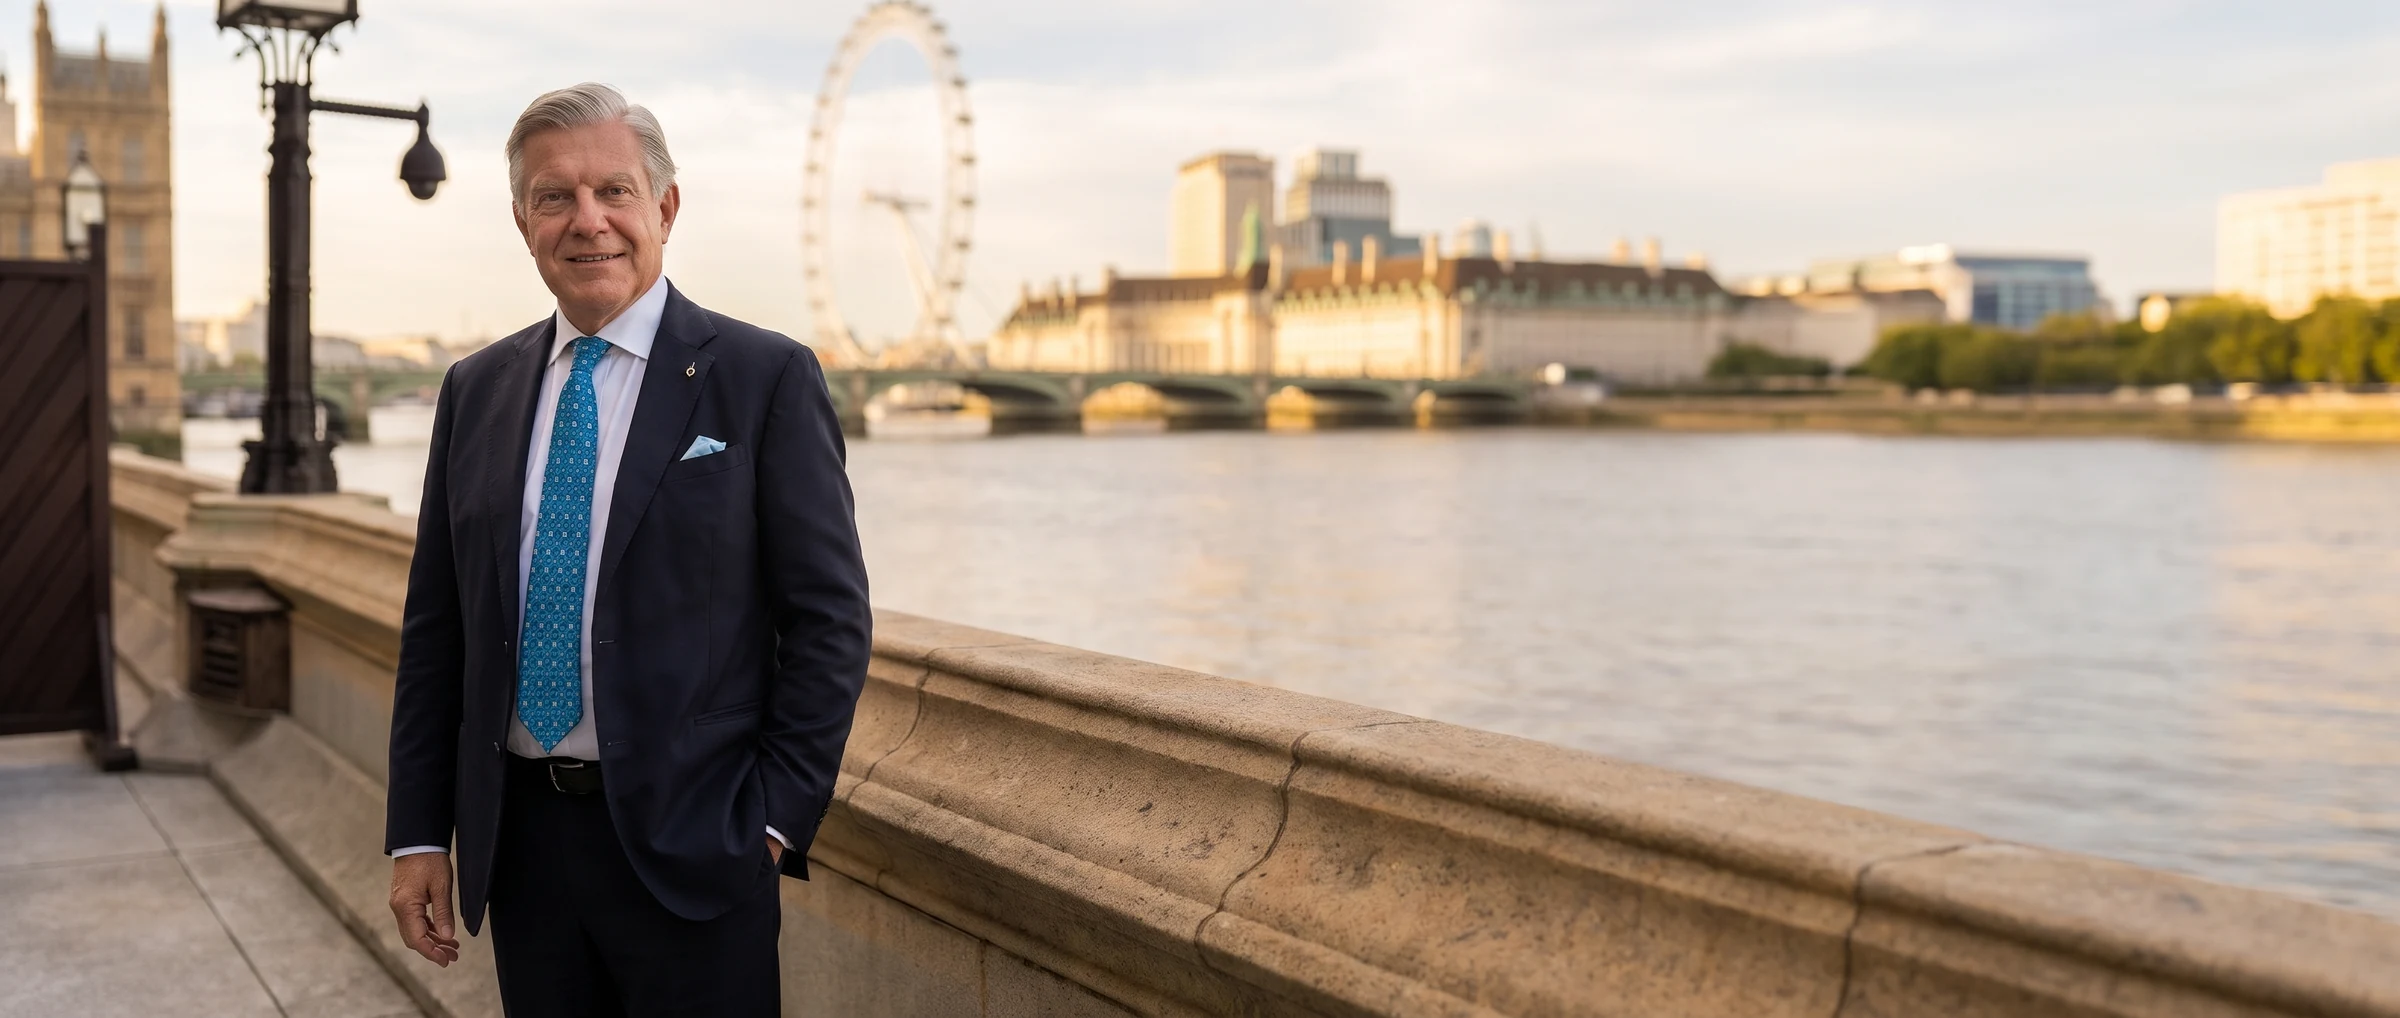
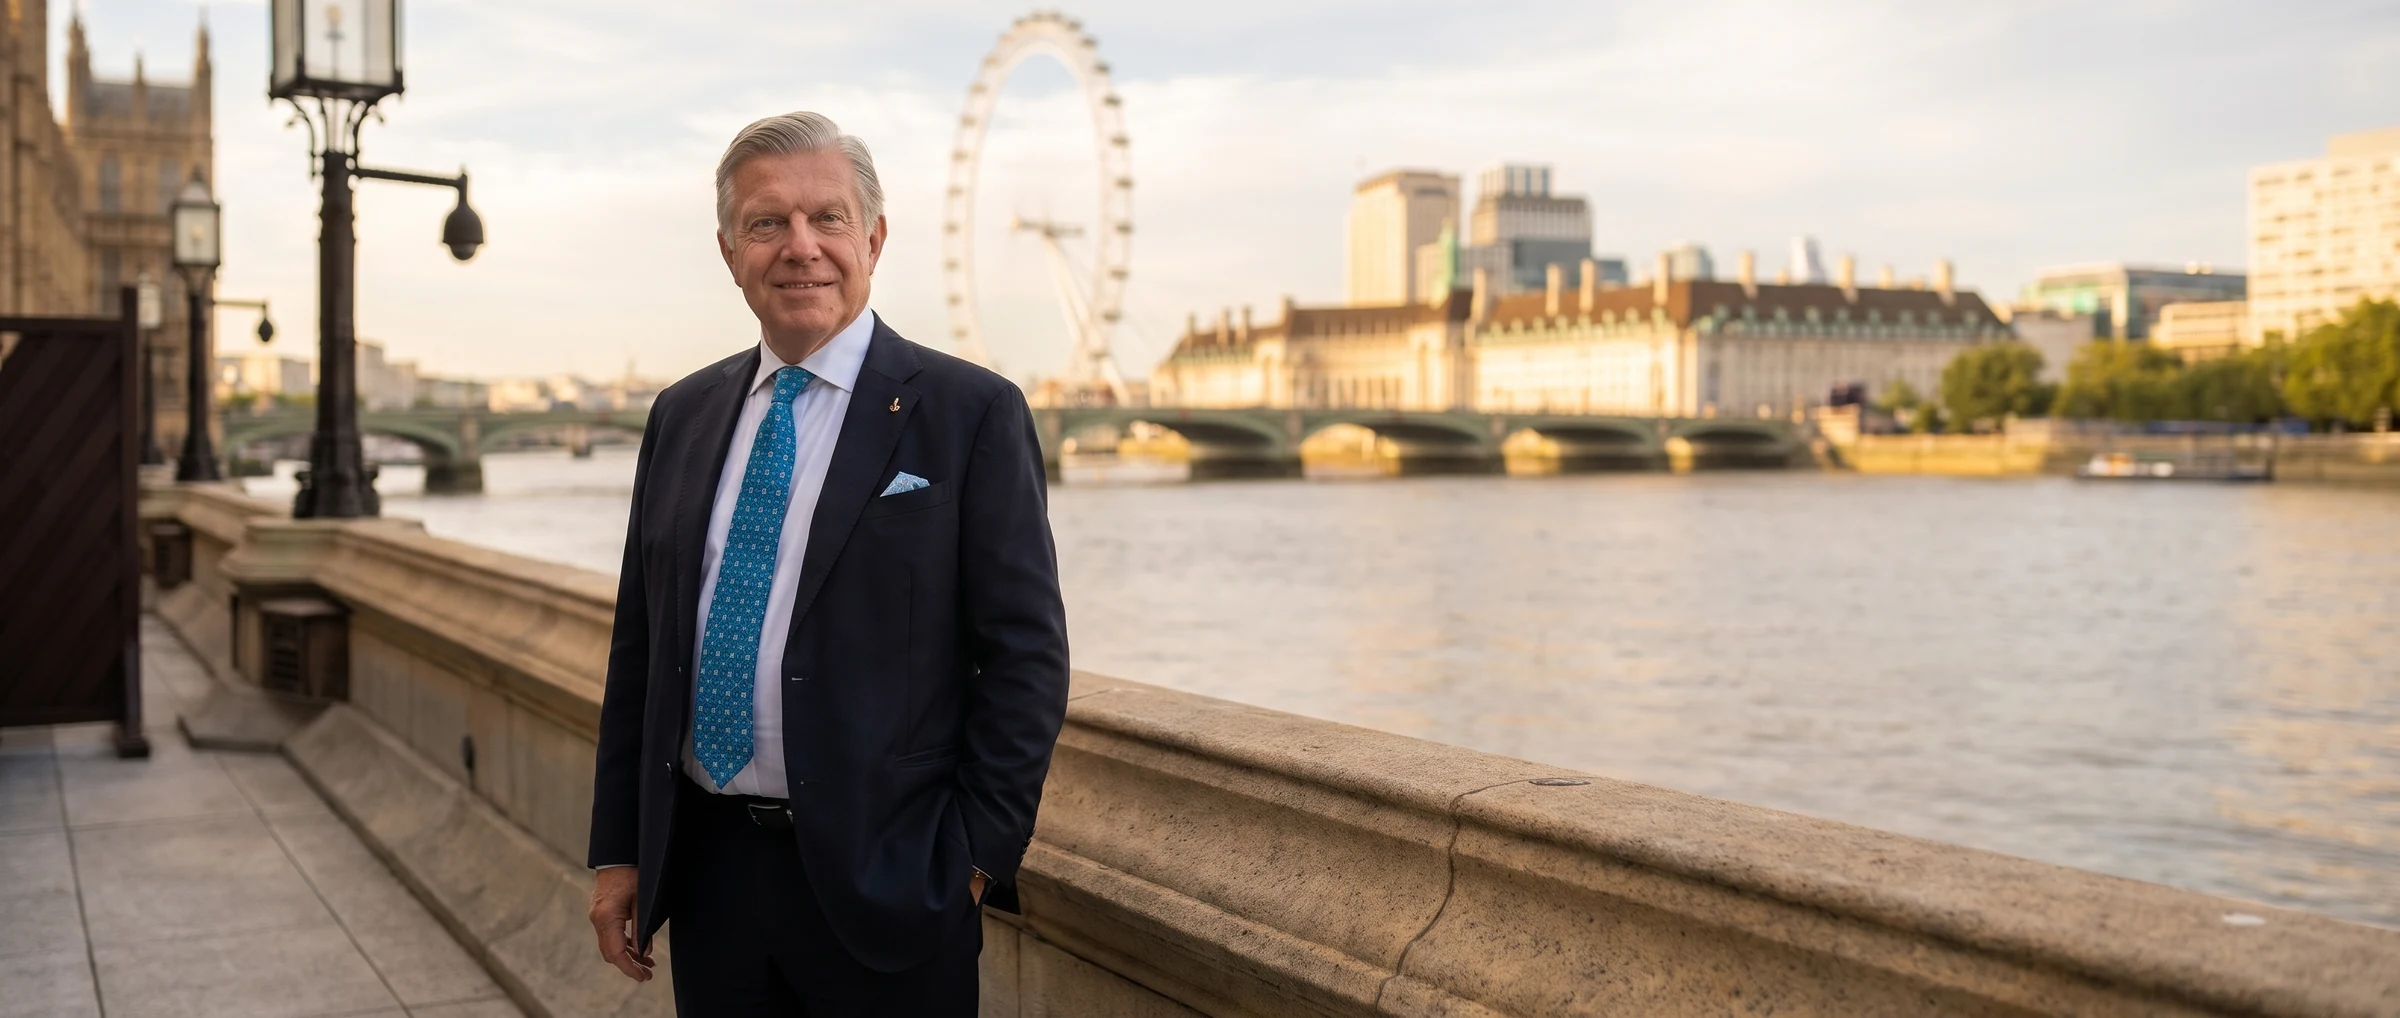
Dr Davide page: use the closer-likeness terrace photo in the Proportion section
Claude-Session: https://claude.ai/code/session_019KQCts2FkhKi3aSKtVh8HP

diff --git a/site/assets/css/styles.css b/site/assets/css/styles.css
@@ -1203,7 +1203,7 @@ body.menu-open .site-header .icon-btn { border-color: rgba(255, 255, 255, .4); b
 
 .dr-quote { position: relative; min-height: 640px; display: flex; align-items: center; overflow: hidden; isolation: isolate; color: var(--white); background: var(--navy-ink); }
 .dr-quote-media { position: absolute; inset: -6% 0 -18%; z-index: -2; }
-.dr-quote-media img { width: 100%; height: 100%; object-fit: cover; object-position: 30% 18%; }
+.dr-quote-media img { width: 100%; height: 100%; object-fit: cover; object-position: 50% 18%; }
 .dr-quote::before { content: ""; position: absolute; inset: 0; z-index: -1; background: linear-gradient(90deg, rgba(14, 28, 46, 0) 25%, rgba(14, 28, 46, .65) 55%, rgba(14, 28, 46, .9) 100%); }
 .dr-quote-inner { display: flex; justify-content: flex-end; padding-block: 96px; }
 .dr-quote-text { width: min(520px, 100%); }
